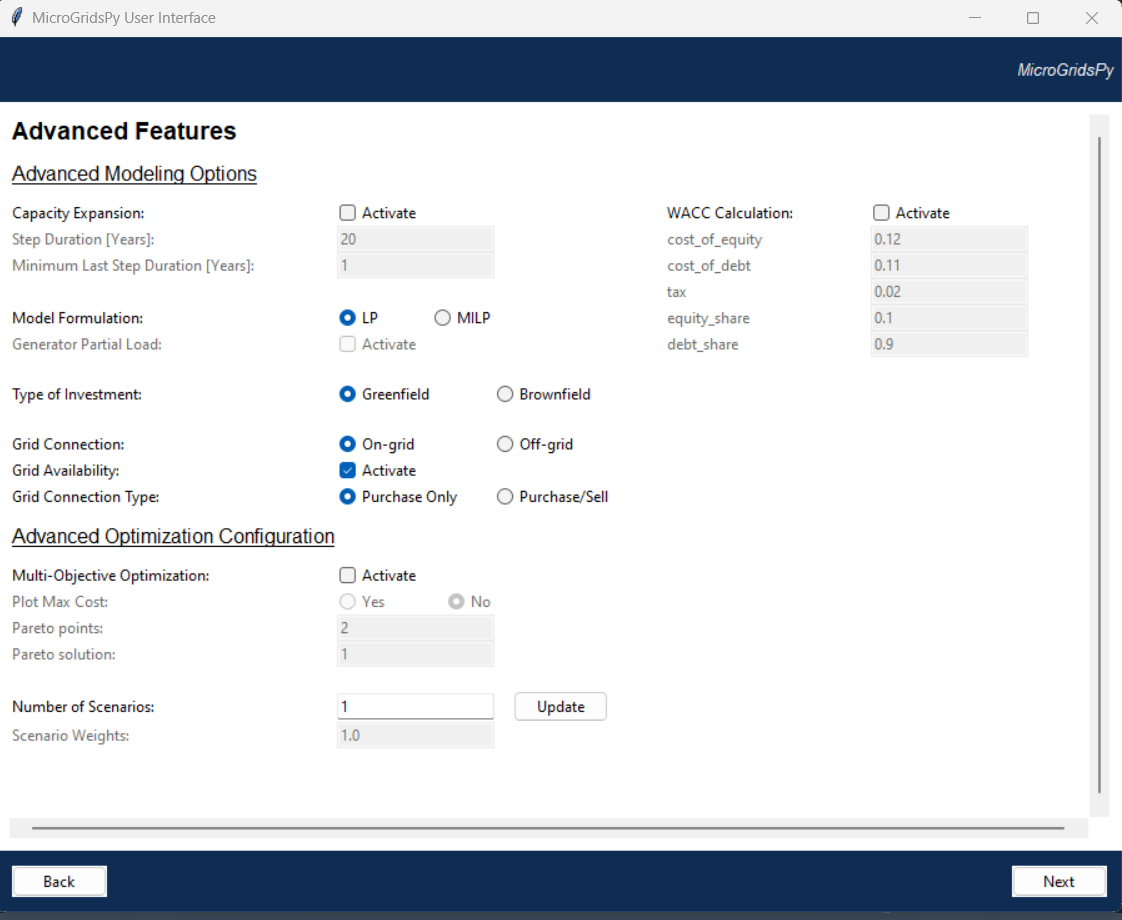
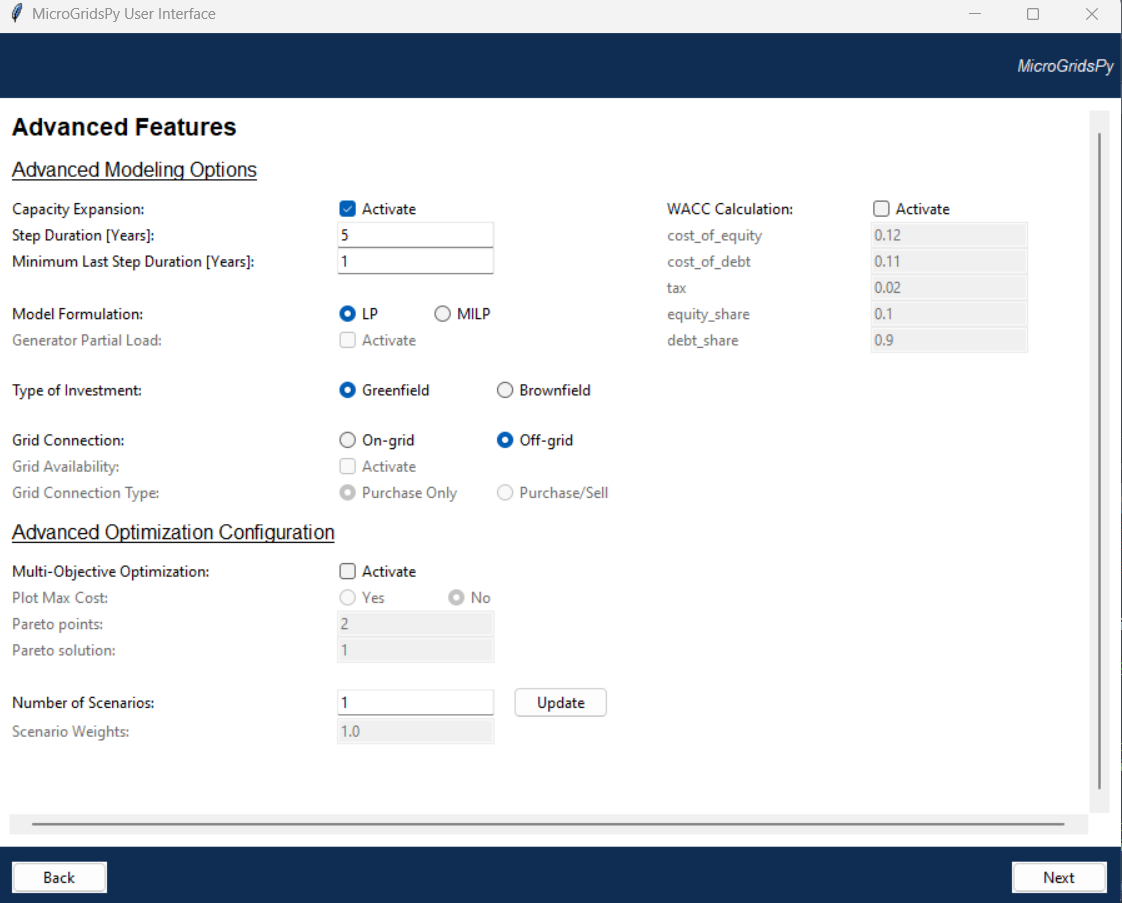
update

diff --git a/docs/source/example.rst b/docs/source/example.rst
@@ -14,8 +14,7 @@ In this exemplative case study, the focus is on a rural village situated in the 
 
 
 The chosen site's geographic and climatic conditions are favorable for renewable energy projects, with abundant sunlight and moderate albedo effects contributing to the efficiency of solar power generation. The specified tilt and azimuth angles are particularly well-suited to the region’s latitude, ensuring that the solar panels receive maximum irradiance during peak sun hours. 
-The RES time series are generated endogenously using NASA POWER data and village archetypes. These time series represent the renewable energy potential for the chosen location, considering factors such as solar irradiance and wind speed. They provide a qualitative understanding of the renewable energy availability.
-On the other hand, the Demand time series is also generated endogenously, representing the energy consumption patterns of the village in Zambia. They are based on build-in load curve archetypes for sub-Saharan Africa and account for variables such as household demand, schools, and hospitals. 
+The RES time series are generated endogenously using NASA POWER data and the build-in Sub-Sahara archetypes. 
 
 Default Scenario
 ----------------
@@ -93,14 +92,19 @@ The images gallery below visualizes the interface windows, simulation outcomes, 
 
 **Results Interpretation**
 
-In the default simulation, renewable sources significantly contribute to the energy mix with 77,38% penetration, accompanied by a 34.87% utilization of batteries and a 23,13% share from diesel generators. Notably, as illustrated in the CashFlow Plot, the reliance on generators escalates over the years due to increasing demand, making them a critical component to meet energy requirements in the absence of capacity expansion. 
+In the foundational simulation scenario, the energy composition is substantially influenced by renewable sources, resulting in a renewable penetration rate of 77.38%. This approach is bolstered by a 34.87% utilization of battery storage, which plays a critical role in energy continuity. Despite the emphasis on renewables, diesel generators contribute a notable 23.13% to the energy provision. This contribution is particularly significant given that it addresses supply shortfalls when renewable generation and battery storage do not fully meet the demand.
 
-Grid Connection
+The financial trajectory, as depicted in the Cash Flow Plot, suggests a gradual uptick in diesel generator reliance. This pattern underscores the need for expanded generation capacity to accommodate the ascending energy demand. However, such reliance on diesel generation is not statically doomed to increase unchecked. The model is equipped to simulate escalating fuel costs annually, providing an economic counterbalance to generator dependence. By incorporating the reality of rising fuel costs, the model adds an economic impetus for investing in more renewable sources and storage solutions over time.
+
+It is pivotal to recognize that the current modeling framework is built upon Linear Programming (LP) principles, without incorporating the intricacies of Mixed-Integer Linear Programming (MILP) or nuanced features like generator partial load effects. The model's financial assessments are predicated on a consistent interest rate, rather than employing the more dynamic Weighted Average Cost of Capital (WACC), which could yield a more layered financial analysis conducive to strategic planning for energy infrastructure.
+
+Anticipated enhancements to the model will include the integration of capacity expansion strategies, refined modeling of generator operations to include partial load effects, and a transition to WACC for a more detailed financial outlook. Moreover, with the capacity to simulate incremental fuel costs, the model will offer insights into how escalating operational expenses might naturally curtail reliance on fossil-fuel generators, thus reinforcing the economic viability of renewable solutions.
+
+These prospective enhancements will not only heighten the model's precision but will also facilitate the development of more sustainable and economically sound energy systems for rural mini-grids, thereby supporting the transition towards cleaner and more resilient energy infrastructures.
+
+Capacity Expansion and Increasing Fuel Cost
 ------------------------------
 
-Moving away from the basic example previously discussed, this scenario within MicroGridsPy presents a different configuration where grid connection is enabled starting from year 10. This adjustment aims to explore its influence on the simulation results, offering insights into how integrating with the grid from a specific year affects the overall energy strategy.
-
-- **Grid Connection**: Activated, allowing the microgrid to interact with the main electrical grid. starting from year 10
 
 
 .. raw:: html
